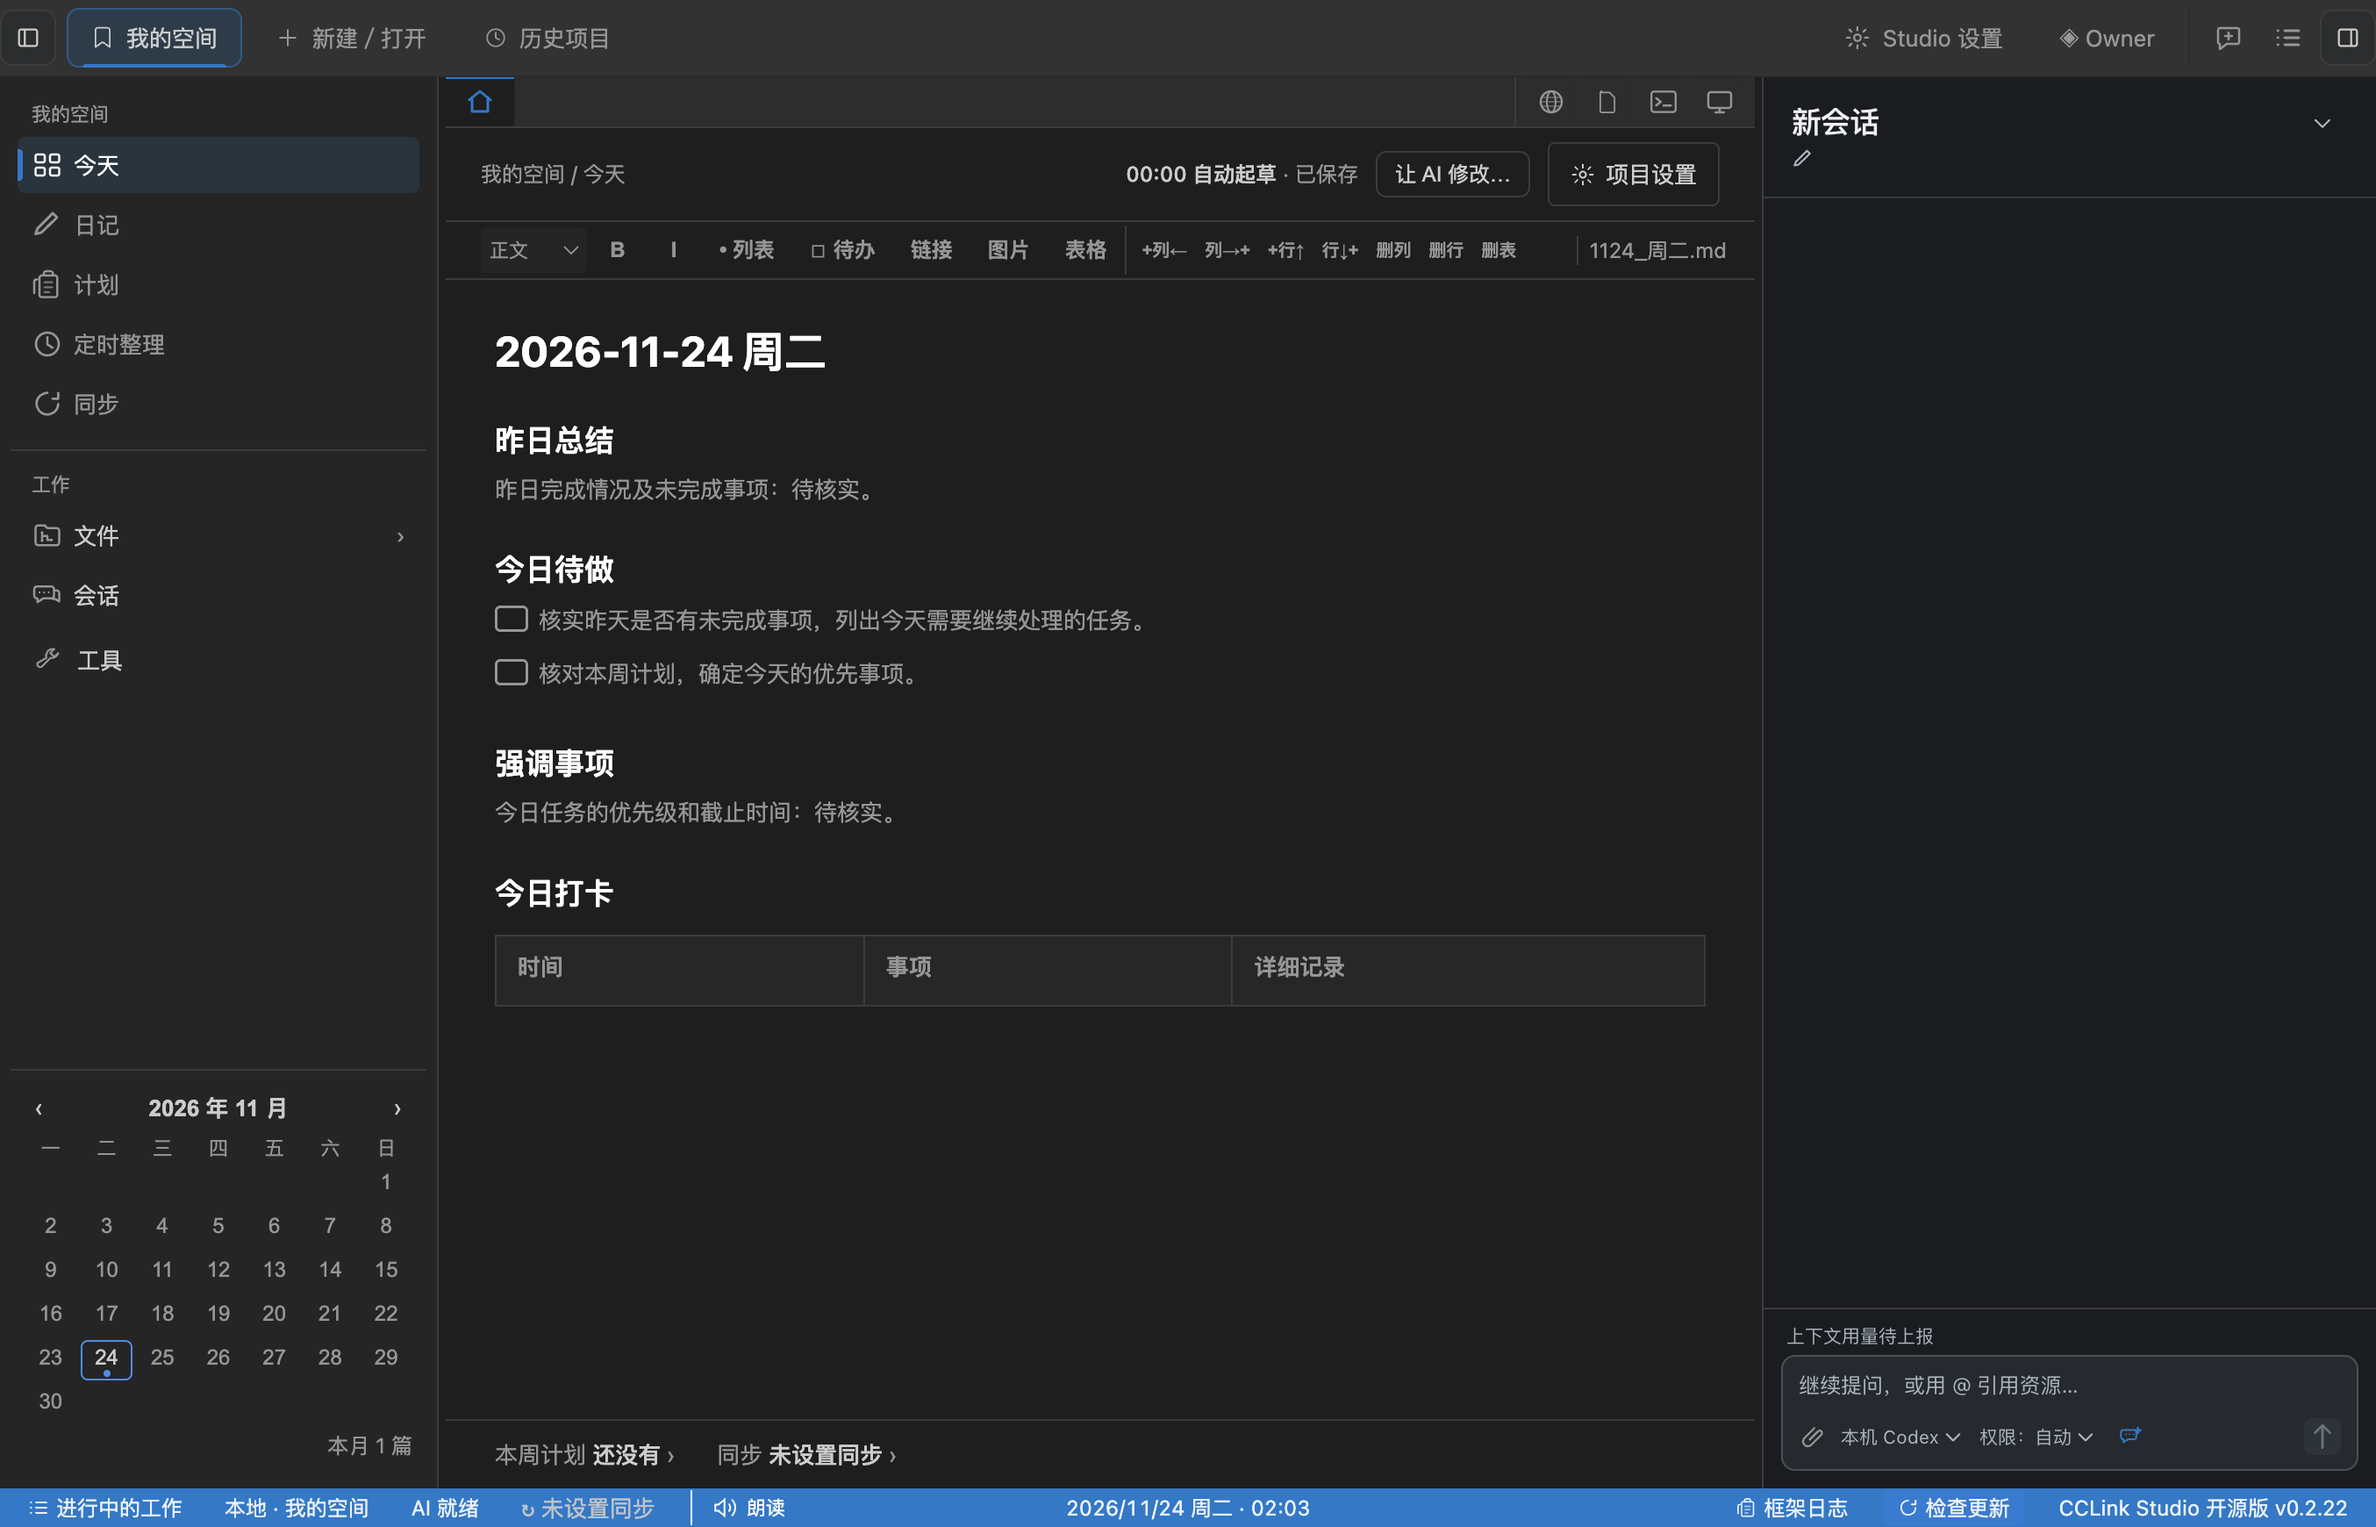
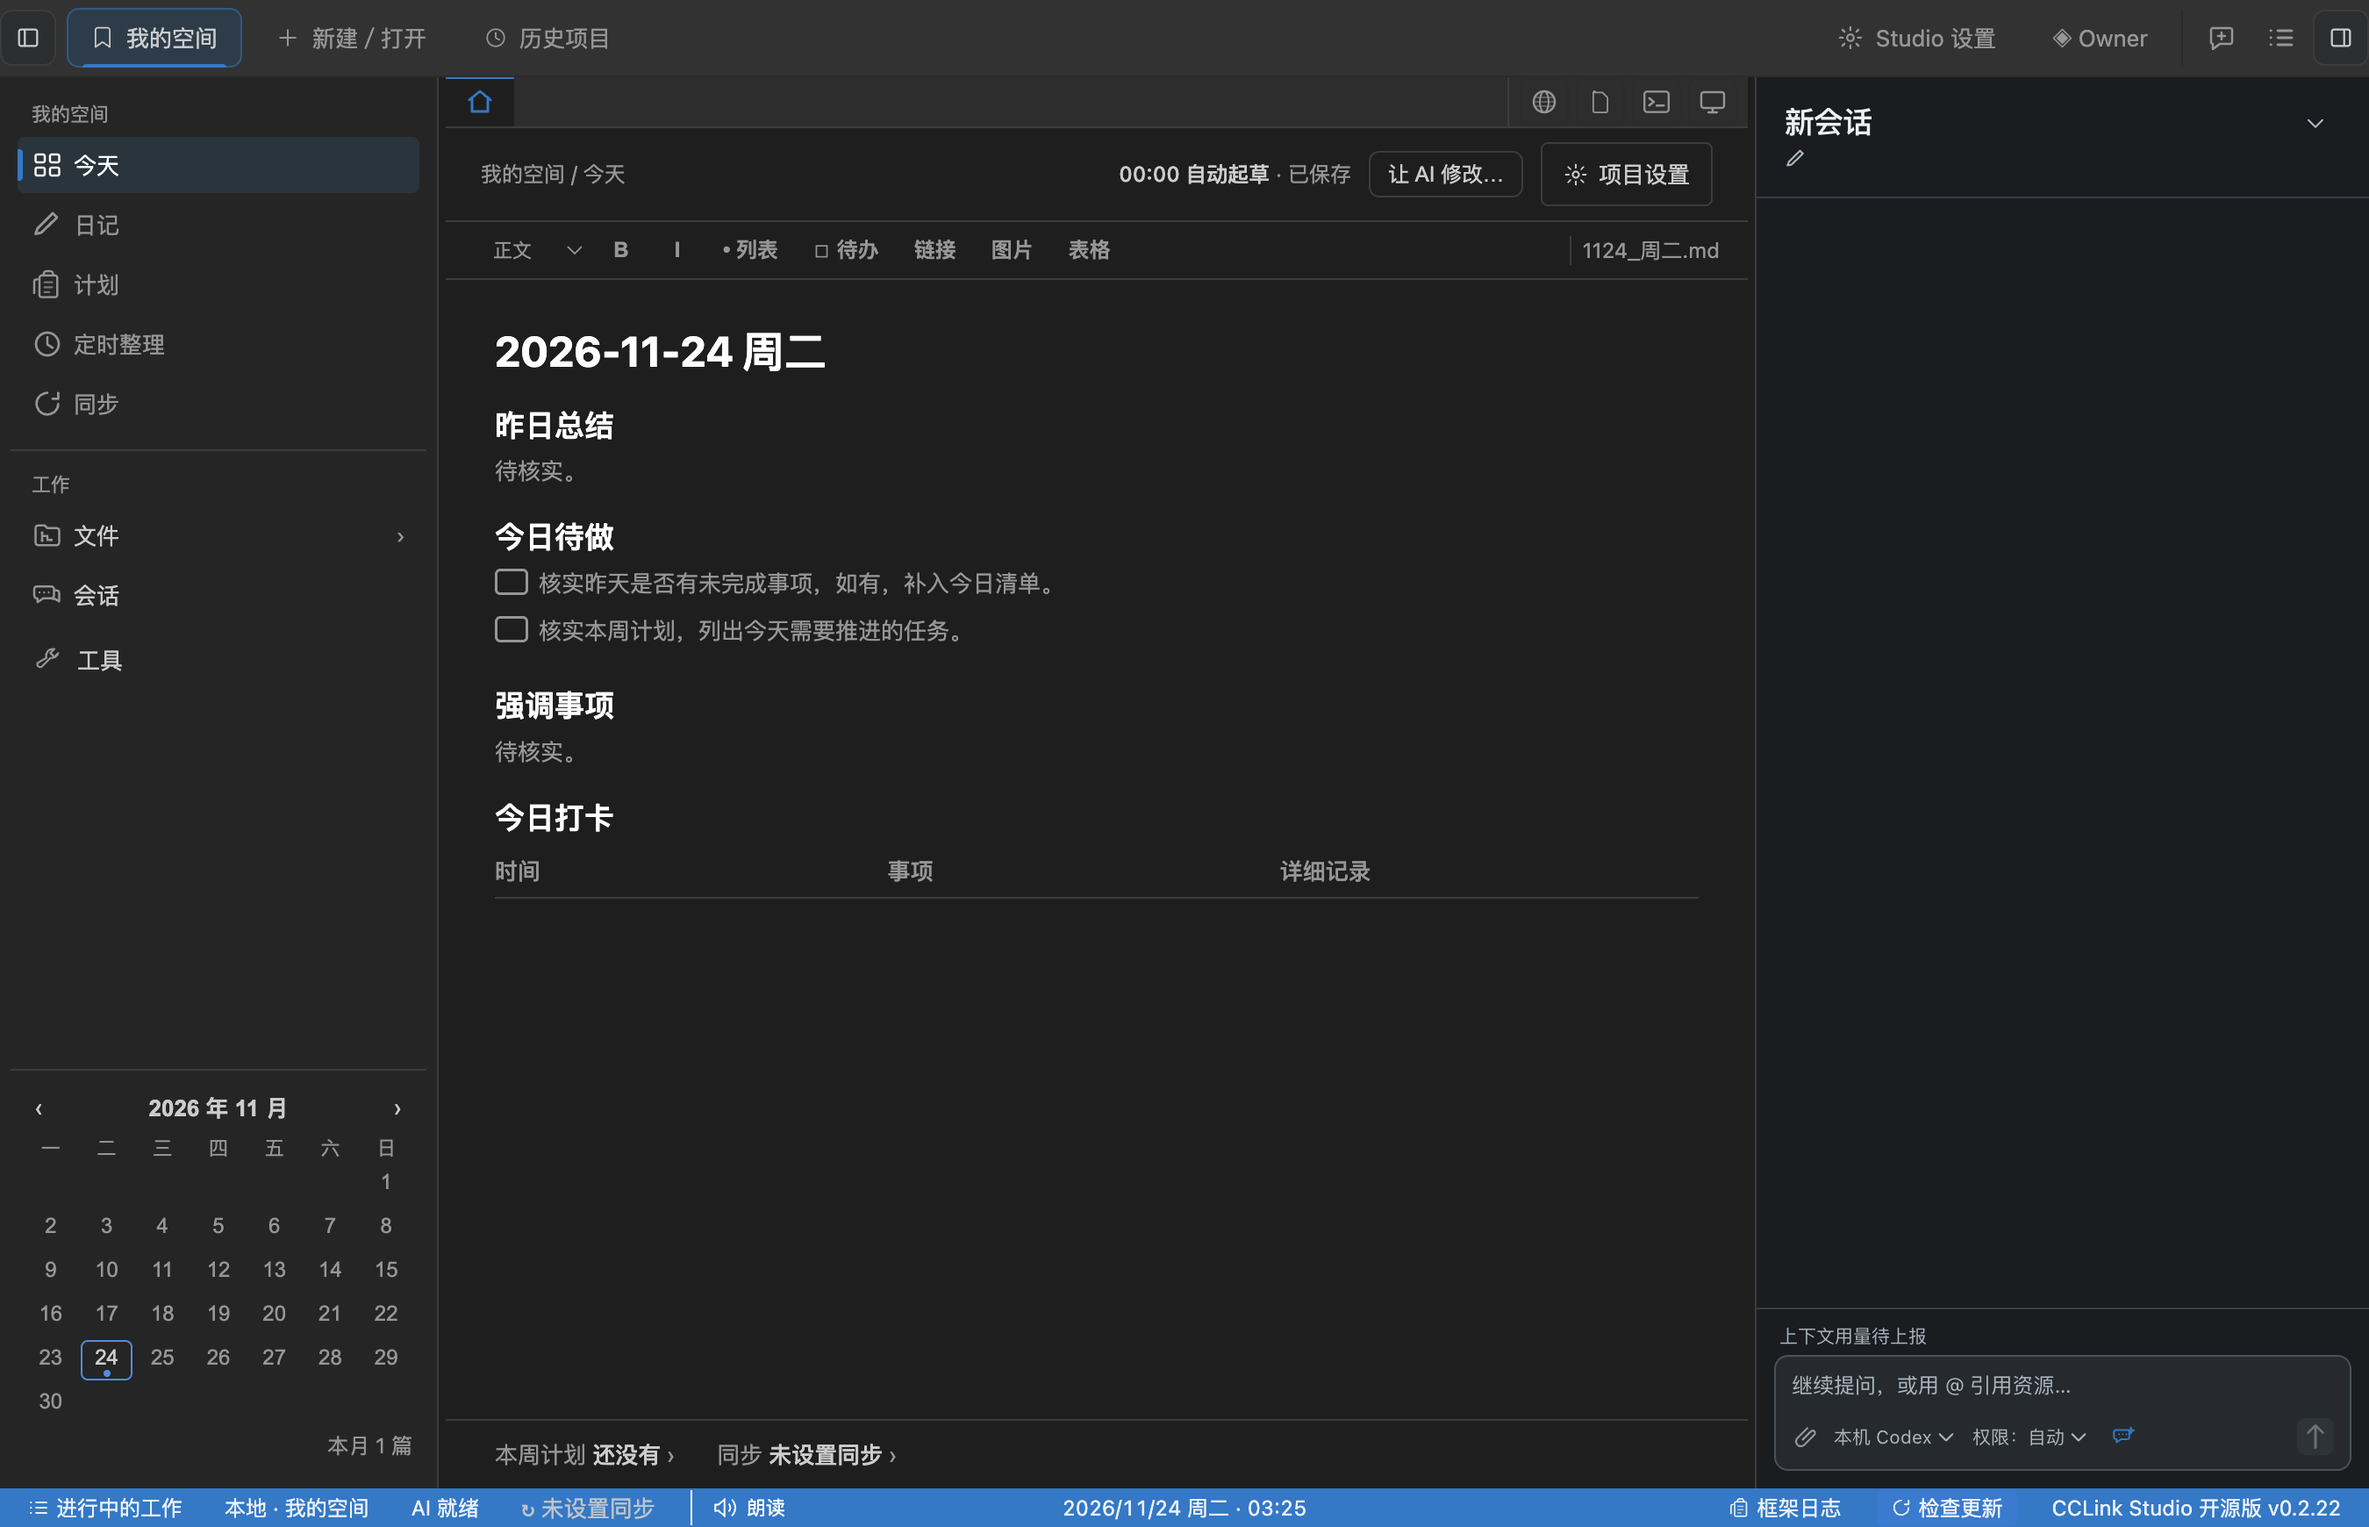
Match the today page to mockup 24: table tools only in a focused table, tight sections, quiet check-in table

diff --git a/src/renderer/src/components/workbench/EditorToolbar.tsx b/src/renderer/src/components/workbench/EditorToolbar.tsx
@@ -1,3 +1,4 @@
+import { useEffect, useState } from 'react'
 import { MarkdownOpenAs } from './ContentPresentationBar'
 import { type Editor, useEditorState } from '@tiptap/react'
 import { formatKeyChord, isMacPlatform } from '@shared/keybindings'
@@ -219,7 +220,24 @@ export function EditorToolbar({
     : []
   const headingLevel = editor?.getAttributes('heading').level as number | undefined
   const codeLanguage = (editor?.getAttributes('codeBlock').language as string | undefined) ?? ''
-  const inTable = editor?.isActive('table') ?? false
+  // The compact toolbar shows table tools only while the cursor is really in a table.
+  const [focused, setFocused] = useState(() => editor?.isFocused ?? false)
+  useEffect(() => {
+    if (!editor || !compact) return
+    const onFocus = (): void => setFocused(true)
+    const onBlur = ({ event }: { event: FocusEvent }): void => {
+      const next = event.relatedTarget
+      if (next instanceof Element && next.closest('.editor-toolbar')) return
+      setFocused(false)
+    }
+    editor.on('focus', onFocus)
+    editor.on('blur', onBlur)
+    return () => {
+      editor.off('focus', onFocus)
+      editor.off('blur', onBlur)
+    }
+  }, [editor, compact])
+  const inTable = (editor?.isActive('table') ?? false) && (!compact || focused)
   const imageSelected = editor?.isActive('image') ?? false
   const saveControl = resolveEditorSaveControl(filePath, dirty, persistenceStatus)
   const shown = compact

diff --git a/src/renderer/src/features/workspace-open/fixed-spaces.css b/src/renderer/src/features/workspace-open/fixed-spaces.css
@@ -1009,7 +1009,7 @@
 }
 .diary-today-editor .tiptap-editor .tiptap h2 {
   font-size: 17px;
-  margin: 1.4em 0 0.3em;
+  margin: 0.9em 0 0.2em;
   padding: 0;
   border: 0;
 }
@@ -1034,4 +1034,42 @@
   width: auto;
   min-width: 0;
   white-space: pre-wrap;
+}
+
+/* Mockup 24: body text as bright as the headings, tight lists, a quiet check-in table. */
+.diary-today-editor .tiptap-editor .tiptap {
+  color: var(--text-active);
+}
+.diary-today-editor .tiptap-editor .tiptap ul,
+.diary-today-editor .tiptap-editor .tiptap ol {
+  margin: 0 0 0.3em;
+}
+.diary-today-editor .tiptap-editor .tiptap ul[data-type='taskList'] li {
+  margin: 0;
+}
+.diary-today-editor .tiptap-editor .tiptap table {
+  margin: 0.2em 0 0.4em;
+}
+.diary-today-editor .tiptap-editor .tiptap table td,
+.diary-today-editor .tiptap-editor .tiptap table th {
+  border: 0;
+  border-bottom: 1px solid var(--border-color);
+  padding: 4px 12px 4px 0;
+}
+.diary-today-editor .tiptap-editor .tiptap table th {
+  background: transparent;
+  font-size: 13px;
+  font-weight: 500;
+  color: var(--text-secondary);
+}
+.diary-today-editor .tiptap-editor .tiptap table th p {
+  margin: 0;
+}
+.diary-today-editor .editor-toolbar.compact .toolbar-select.heading {
+  background: transparent;
+  border-color: transparent;
+}
+/* Toolbar, text column and footer start at one left edge. */
+.diary-today-editor .editor-toolbar.compact {
+  padding-left: 22px;
 }
